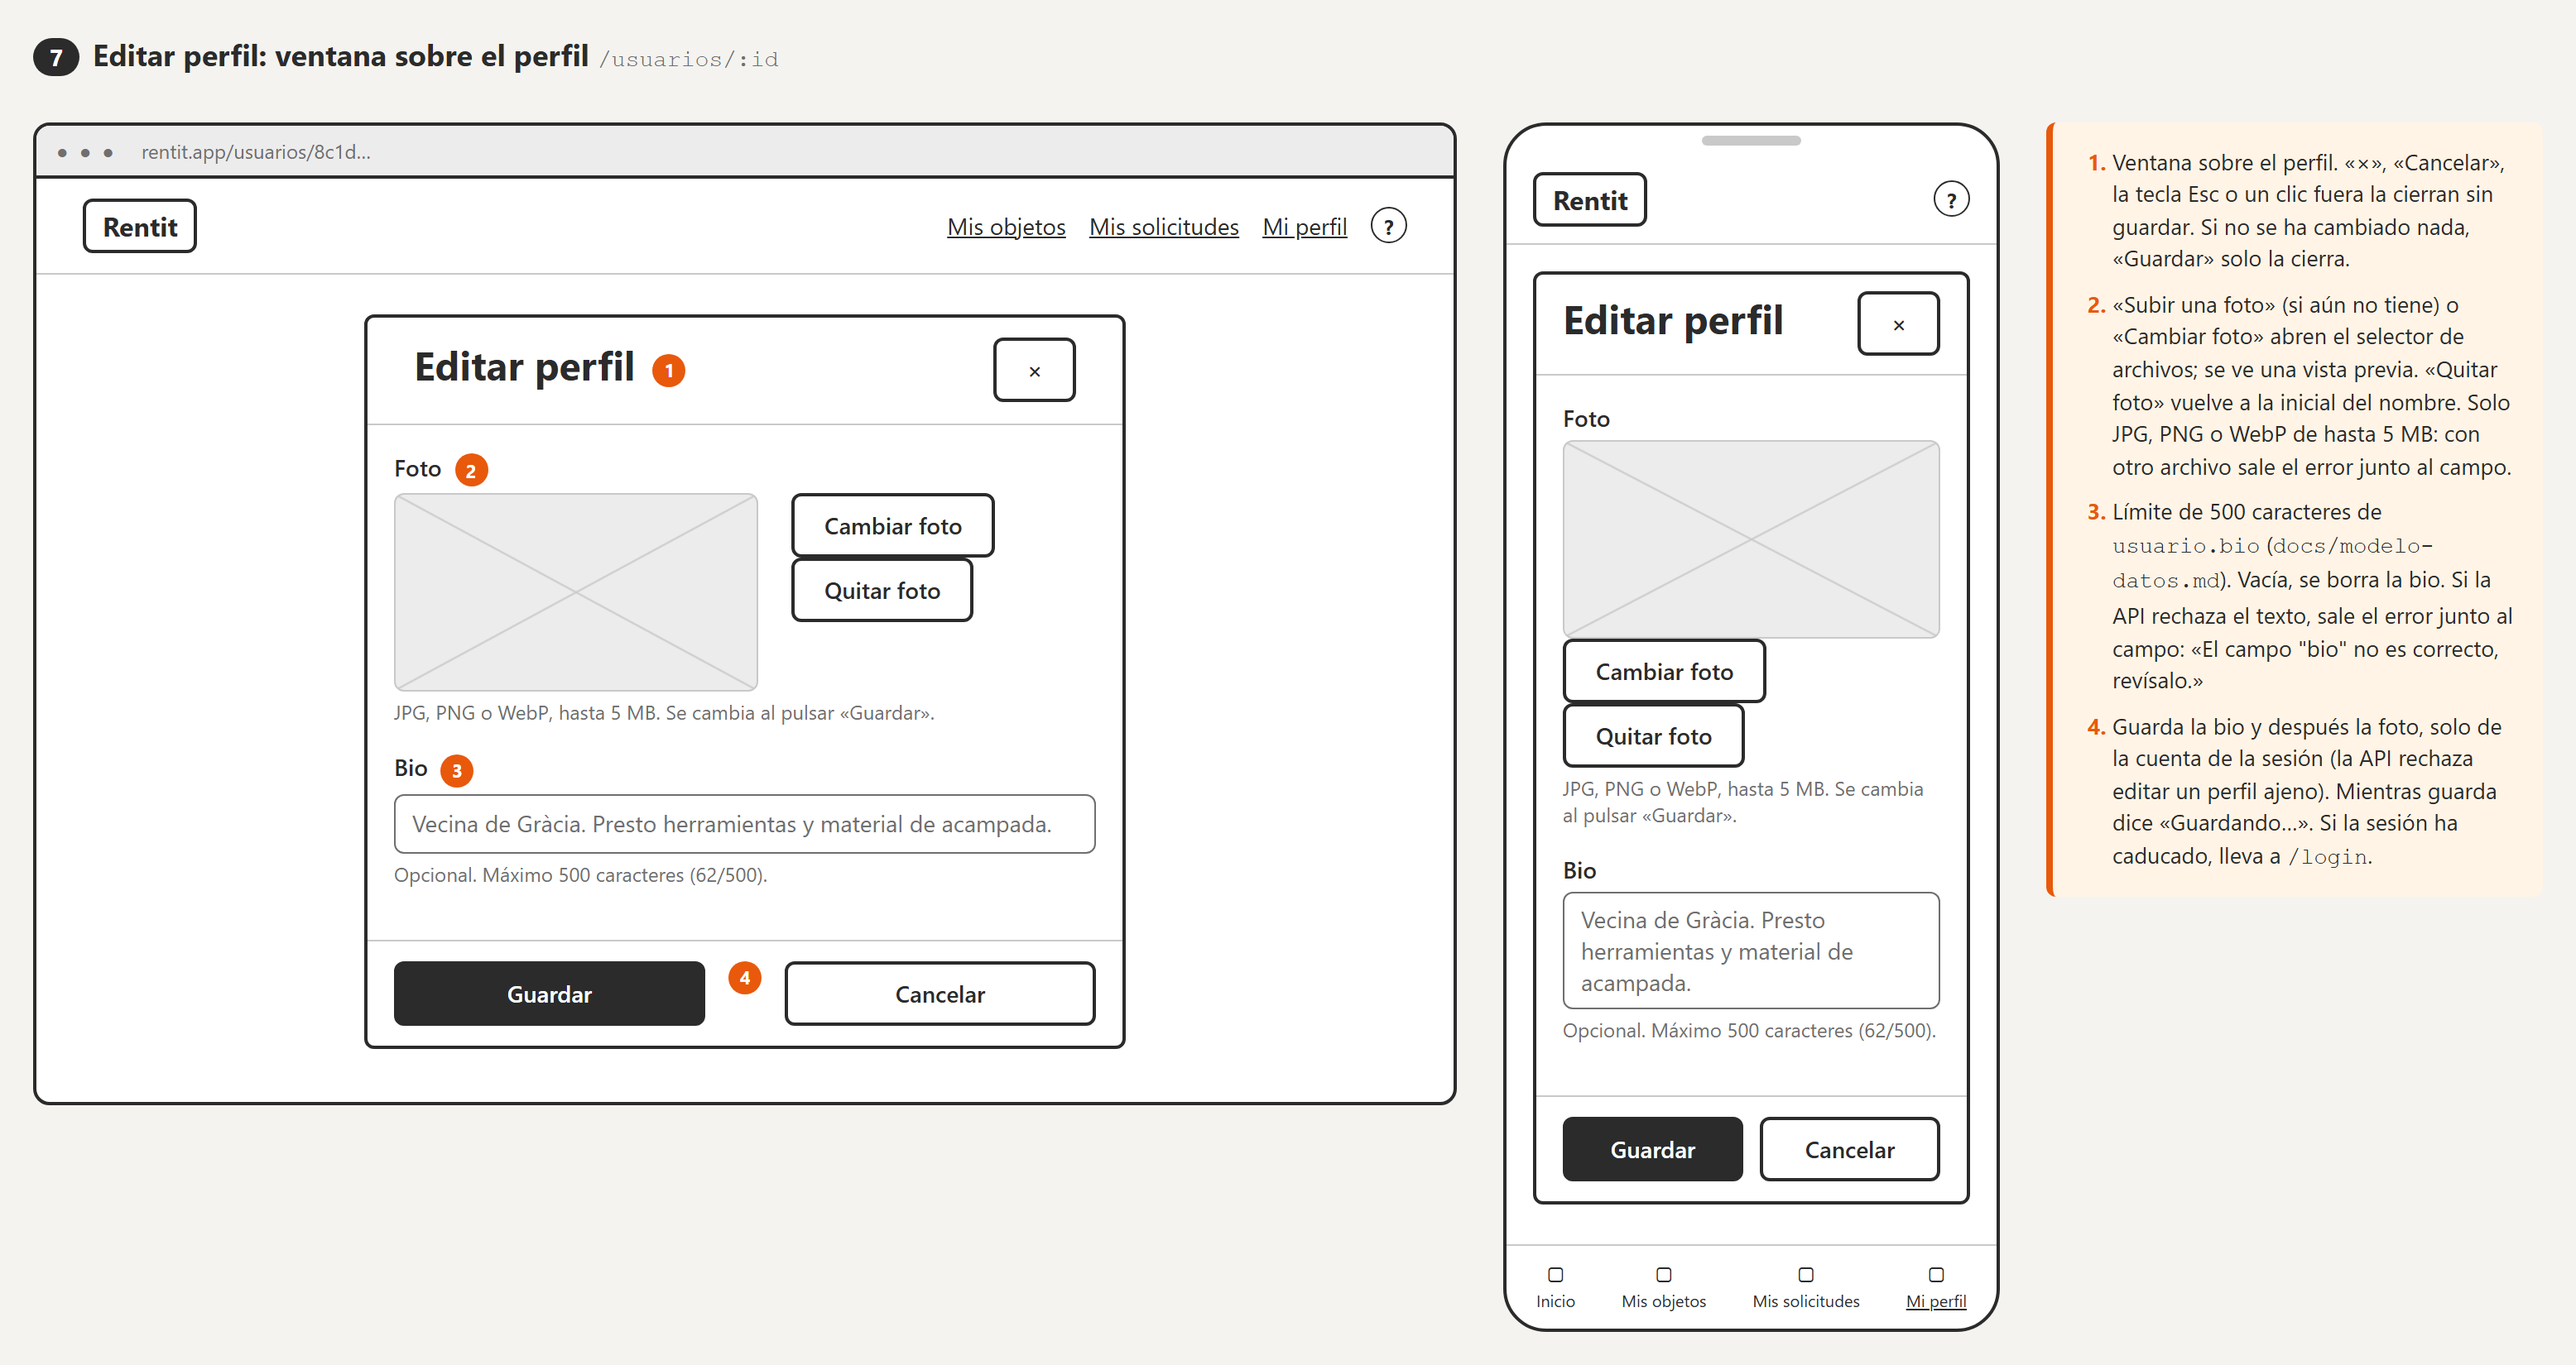
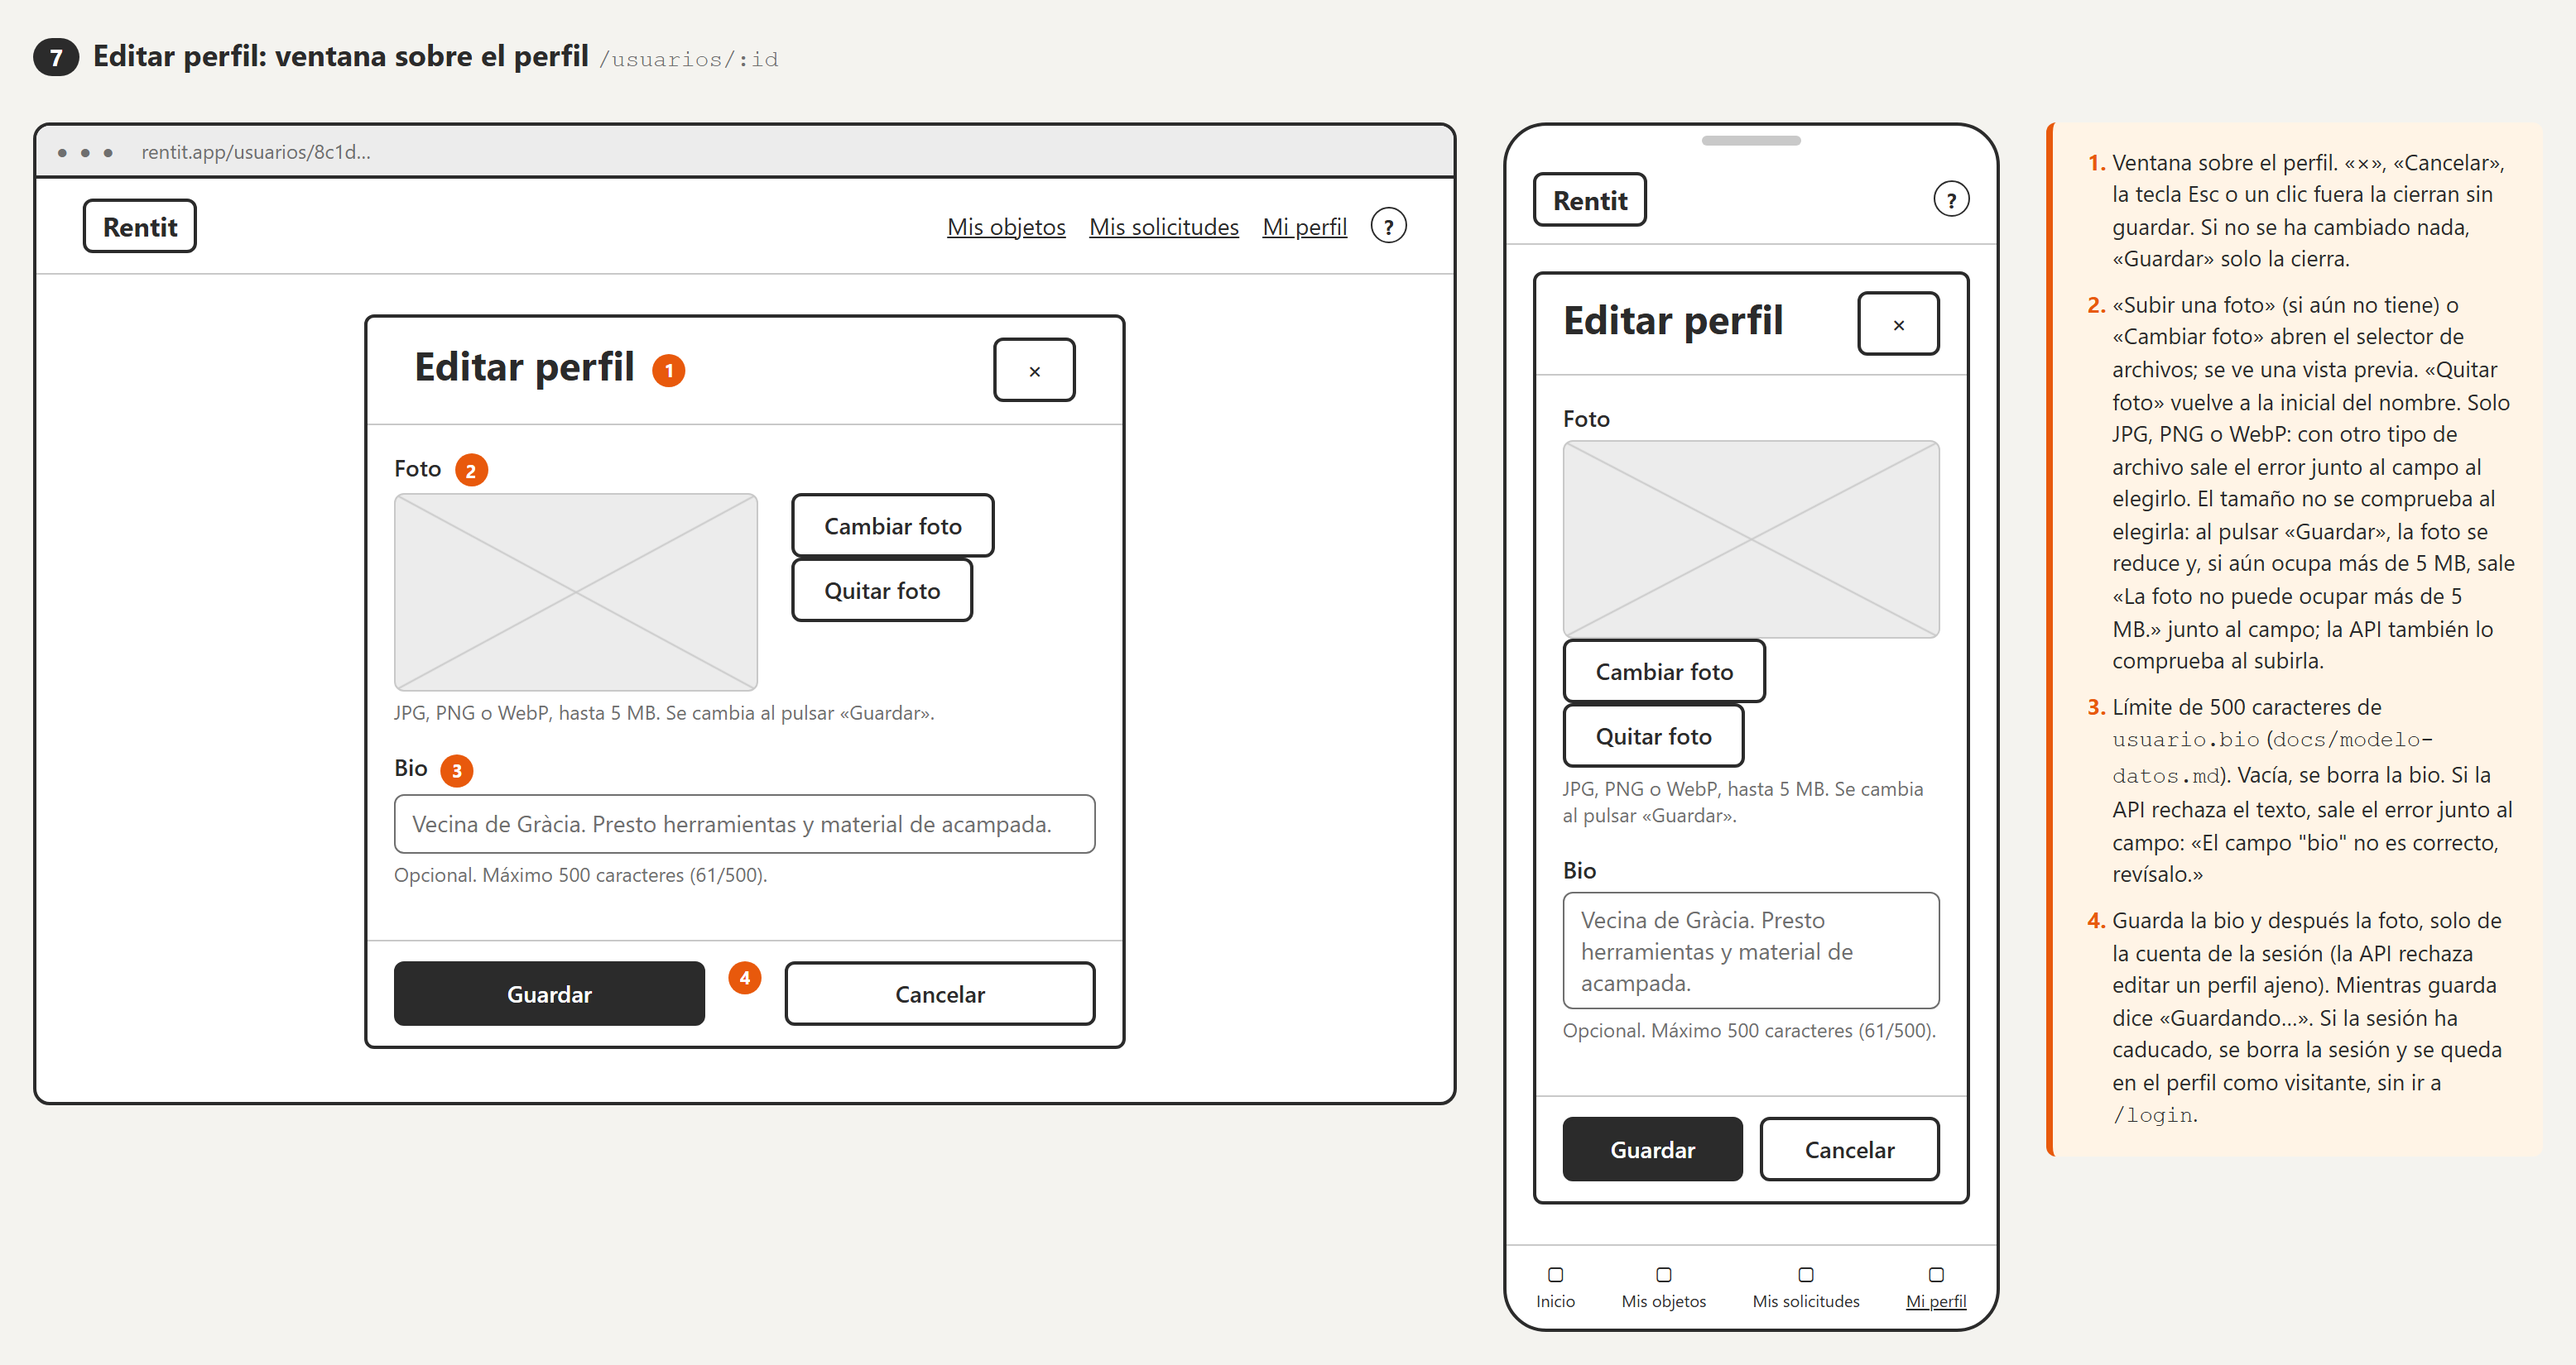
docs(wireframes): US-01.4 notas de la foto, la sesión caducada y el contador de la bio como en la web (#374)

Changed region(s): [[0.8104, 0.3091, 0.9663, 0.8036]]

diff --git a/docs/wireframes/US-01.4-perfil-publico/index.html b/docs/wireframes/US-01.4-perfil-publico/index.html
@@ -380,7 +380,7 @@
                 <div class="wf-campo">
                   <label>Bio <span class="wf-marca">3</span></label>
                   <div class="wf-input">Vecina de Gràcia. Presto herramientas y material de acampada.</div>
-                  <p class="wf-ayuda">Opcional. Máximo 500 caracteres (62/500).</p>
+                  <p class="wf-ayuda">Opcional. Máximo 500 caracteres (61/500).</p>
                 </div>
               </div>
               <div class="wf-ventana-botones">
@@ -409,7 +409,7 @@
                 <div class="wf-campo">
                   <label>Bio</label>
                   <div class="wf-input">Vecina de Gràcia. Presto herramientas y material de acampada.</div>
-                  <p class="wf-ayuda">Opcional. Máximo 500 caracteres (62/500).</p>
+                  <p class="wf-ayuda">Opcional. Máximo 500 caracteres (61/500).</p>
                 </div>
               </div>
               <div class="wf-ventana-botones">
@@ -428,7 +428,9 @@
         </li>
         <li>
           «Subir una foto» (si aún no tiene) o «Cambiar foto» abren el selector de archivos; se ve una vista previa. «Quitar
-          foto» vuelve a la inicial del nombre. Solo JPG, PNG o WebP de hasta 5 MB: con otro archivo sale el error junto al campo.
+          foto» vuelve a la inicial del nombre. Solo JPG, PNG o WebP: con otro tipo de archivo sale el error junto al campo al elegirlo.
+          El tamaño no se comprueba al elegirla: al pulsar «Guardar», la foto se reduce y, si aún ocupa más de 5 MB, sale
+          «La foto no puede ocupar más de 5 MB.» junto al campo; la API también lo comprueba al subirla.
         </li>
         <li>
           Límite de 500 caracteres de <code>usuario.bio</code> (<code>docs/modelo-datos.md</code>). Vacía, se borra la bio. Si la
@@ -436,7 +438,8 @@
         </li>
         <li>
           Guarda la bio y después la foto, solo de la cuenta de la sesión (la API rechaza editar un perfil ajeno). Mientras
-          guarda dice «Guardando…». Si la sesión ha caducado, lleva a <code>/login</code>.
+          guarda dice «Guardando…». Si la sesión ha caducado, se borra la sesión y se queda en el perfil como visitante, sin
+          ir a <code>/login</code>.
         </li>
       </ol>
     </section>
